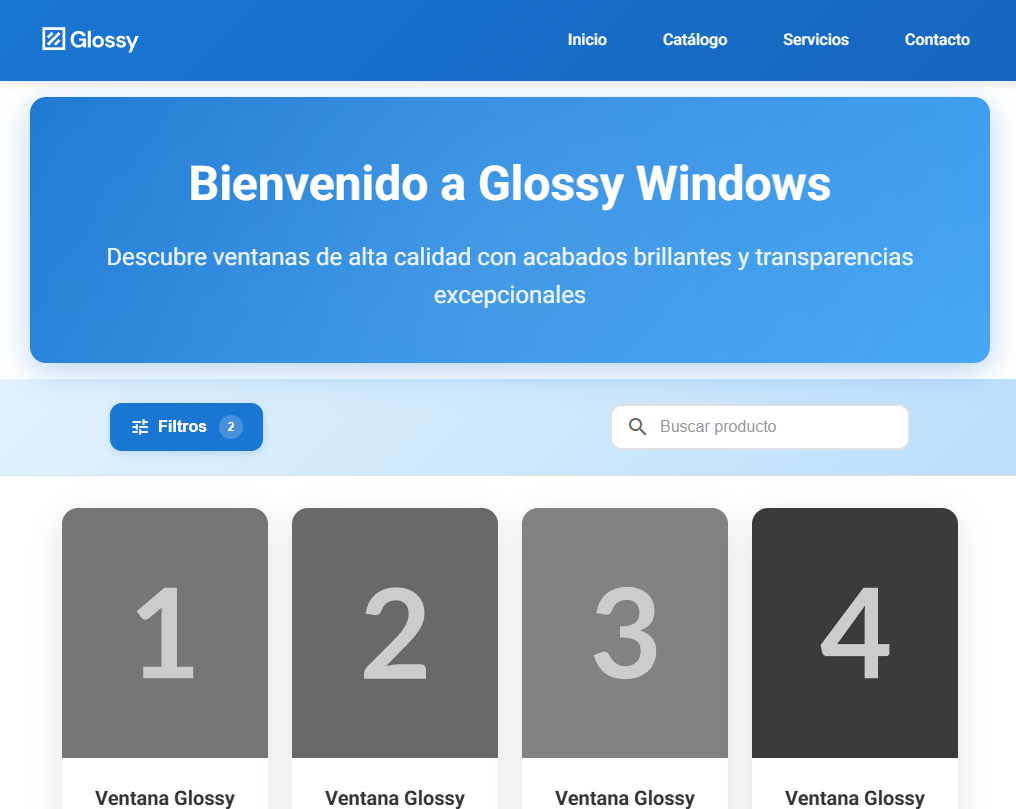
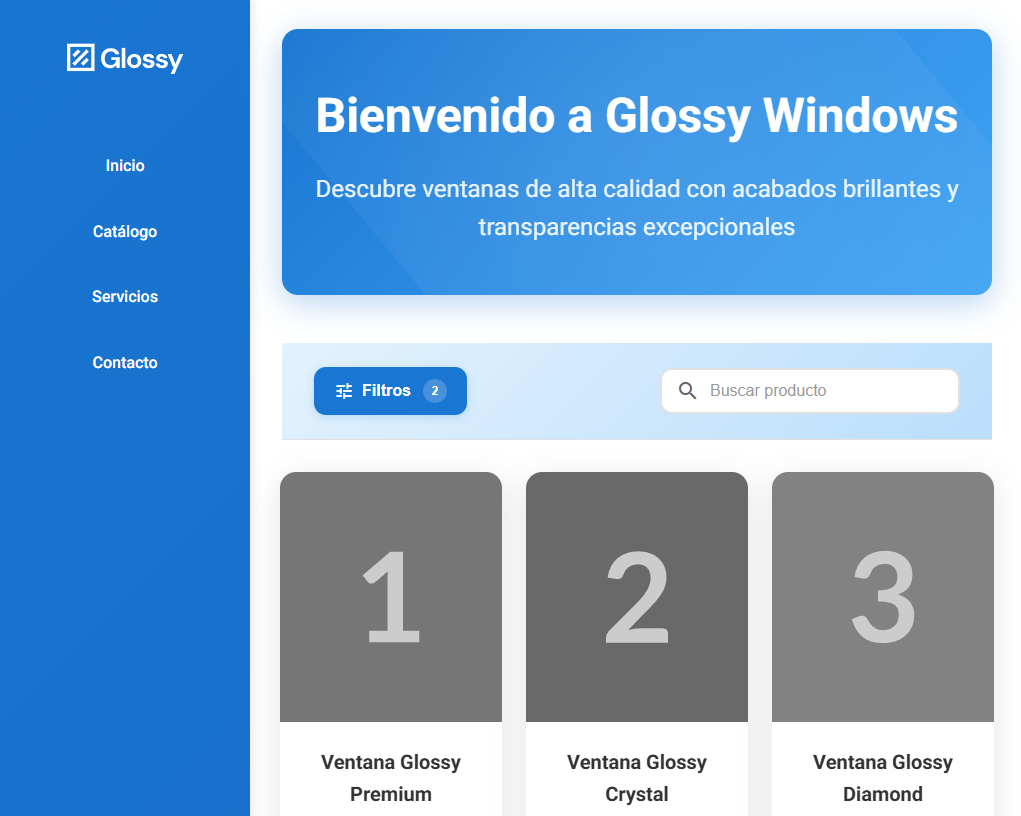
Corrección menú lateral

diff --git a/index.html b/index.html
@@ -31,30 +31,49 @@
             </nav>
         </header>
 
-        <!-- Hero Section -->
-        <section id="inicio" class="hero-section">
-            <h2>Bienvenido a Glossy Windows</h2>
-            <p>Descubre ventanas de alta calidad con acabados brillantes y transparencias excepcionales</p>
-        </section>
-
-        <!-- Sección de filtros y búsqueda -->
-        <aside class="filters">
-            <div class="filter-content">
-                <button class="filter-btn">
-                    <span class="material-icons">tune</span>
-                    <span class="filter-text">Filtros</span>
-                    <span class="filter-pill">2</span>
-                </button>
-                <div class="search-container">
-                    <span class="material-icons search-icon">search</span>
-                    <input type="text" class="search-input" placeholder="Buscar producto">
-                </div>
-            </div>
-        </aside>
-
         <!-- Sección principal -->
         <main class="main">
-            <section id="catalogo" class="product-section">
+            <!-- Sidebar para desktop -->
+            <aside class="desktop-sidebar">
+                <div class="sidebar-logo">
+                    <img src="assets/css/images/logo.svg" alt="Glossy Windows Logo" class="logo-img">
+                </div>
+                <nav class="sidebar-nav">
+                    <ul class="sidebar-links">
+                        <li><a href="#inicio" class="sidebar-link">Inicio</a></li>
+                        <li><a href="#catalogo" class="sidebar-link">Catálogo</a></li>
+                        <li><a href="#servicios" class="sidebar-link">Servicios</a></li>
+                        <li><a href="#contacto" class="sidebar-link">Contacto</a></li>
+                    </ul>
+                </nav>
+            </aside>
+
+            <!-- Contenido principal con Grid -->
+            <div class="main-content">
+                <!-- Hero Section -->
+                <section id="inicio" class="hero-section">
+                    <h2>Bienvenido a Glossy Windows</h2>
+                    <p>Descubre ventanas de alta calidad con acabados brillantes y transparencias excepcionales</p>
+                </section>
+
+                <!-- Filtros -->
+                <aside class="filters">
+                    <div class="filter-content">
+                        <button class="filter-btn">
+                            <span class="material-icons">tune</span>
+                            <span class="filter-text">Filtros</span>
+                            <span class="filter-pill">2</span>
+                        </button>
+                        <div class="search-container">
+                            <span class="material-icons search-icon">search</span>
+                            <input type="text" class="search-input" placeholder="Buscar producto">
+                        </div>
+                    </div>
+                </aside>
+
+                <!-- Contenido -->
+                <div class="content-area">
+                    <section id="catalogo" class="product-section">
                 <article class="product-card">
                     <div class="product-image">
                         <img src="https://placehold.co/300x250/4CAF50/FFFFFF?text=1" alt="Ventana Glossy Premium">
@@ -127,6 +146,15 @@
                         <button class="btn-primary">Ver más</button>
                     </div>
                 </article>
+                <article class="product-card">
+                    <div class="product-image">
+                        <img src="https://placehold.co/300x250/607D8B/FFFFFF?text=9" alt="Ventana Glossy Aluminio">
+                    </div>
+                    <div class="product-info">
+                        <h3 class="product-title">Ventana Glossy Aluminio</h3>
+                        <button class="btn-primary">Ver más</button>
+                    </div>
+                </article>
             </section>
 
             <!-- Paginación -->
@@ -168,8 +196,8 @@
                     </div>
                 </div>
             </section>
-
-            
+                </div>
+            </div>
         </main>
 
         <!-- Footer -->

diff --git a/assets/css/style.css b/assets/css/style.css
@@ -228,6 +228,24 @@ body {
     gap: 2rem;
 }
 
+/* Sidebar para desktop - oculto por defecto */
+.desktop-sidebar {
+    display: none;
+}
+
+/* Contenido principal */
+.main-content {
+    width: 100%;
+    display: flex;
+    flex-direction: column;
+    gap: 2rem;
+}
+
+/* Content area para móvil */
+.content-area {
+    display: contents;
+}
+
 /* Sección Hero */
 .hero-section {
     background: linear-gradient(135deg, #1976d2, #42a5f5);
@@ -840,11 +858,73 @@ body {
 
 /* Media Queries - Desktop grande (>= 992px) */
 @media (min-width: 992px) {
+    /* Ocultar header en desktop */
+    .header {
+        display: none;
+    }
+    
+    /* Mostrar sidebar en desktop */
+    .desktop-sidebar {
+        display: flex;
+        flex-direction: column;
+        flex-basis: 250px;
+        flex-shrink: 0;
+        background: linear-gradient(135deg, #1976d2, #1565c0);
+        color: white;
+        padding: 2rem 1.5rem;
+        box-shadow: 2px 0 10px rgba(0, 0, 0, 0.1);
+    }
+    
+    /* Ajustar main para sidebar */
+    .main {
+        flex-direction: row;
+        padding: 0;
+        gap: 0;
+    }
+    
+    .main-content {
+        flex: 1;
+        padding: 0;
+        display: grid;
+        grid-template-rows: auto auto 1fr auto;
+        grid-template-areas: 
+            "hero"
+            "filters"
+            "content"
+            "footer";
+        min-height: 100vh;
+    }
+    
+    .hero-section {
+        grid-area: hero;
+        margin: 2rem 2rem 0 2rem;
+    }
+    
+    .filters {
+        grid-area: filters;
+        margin: 1rem 2rem 0 2rem;
+        padding: 1.5rem 2rem;
+    }
+    
+    .content-area {
+        grid-area: content;
+        overflow-y: auto;
+    }
+    
+    .footer {
+        grid-area: footer;
+        margin-top: auto;
+    }
+
+    #catalogo {
+        padding: 0px 30px !important;
+    }
+    
     /* Galería desktop */
     .product-section {
-        grid-template-columns: repeat(4, 1fr);
+        grid-template-columns: repeat(3, 1fr);
         gap: 1.5rem;
-        padding: 0 2rem;
+        padding: 0;
     }
     
     .product-card {
@@ -889,6 +969,55 @@ body {
         justify-content: flex-start;
         margin-left: 2rem;
     }
+    
+    /* Estilos del sidebar */
+    .sidebar-logo {
+        display: flex;
+        flex-direction: column;
+        align-items: center;
+        gap: 1rem;
+        margin-bottom: 3rem;
+        text-align: center;
+    }
+    
+    .sidebar-logo .logo-img {
+        height: 60px;
+        filter: brightness(0) invert(1);
+    }
+    
+    .sidebar-logo h1 {
+        font-size: 1.25rem;
+        font-weight: 700;
+        text-shadow: 2px 2px 4px rgba(0, 0, 0, 0.3);
+    }
+    
+    .sidebar-nav {
+        flex: 1;
+    }
+    
+    .sidebar-links {
+        list-style: none;
+        padding: 0;
+        margin: 0;
+        display: flex;
+        flex-direction: column;
+        gap: 0.5rem;
+    }
+    
+    .sidebar-link {
+        color: white;
+        text-decoration: none;
+        font-weight: 500;
+        padding: 1rem;
+        border-radius: 8px;
+        transition: background-color 0.3s ease;
+        display: block;
+        text-align: center;
+    }
+    
+    .sidebar-link:hover {
+        background-color: rgba(255, 255, 255, 0.15);
+    }
 }
 
 /* Media Queries - Laptop (>= 1024px) */
@@ -900,7 +1029,10 @@ body {
     .hero-section p {
         font-size: 1.5rem;
     }
-    
+}
+
+/* Media Queries - Desktop Grande (>= 1440px) */
+@media (min-width: 1440px) {
     .product-section {
         grid-template-columns: repeat(4, 1fr);
     }
